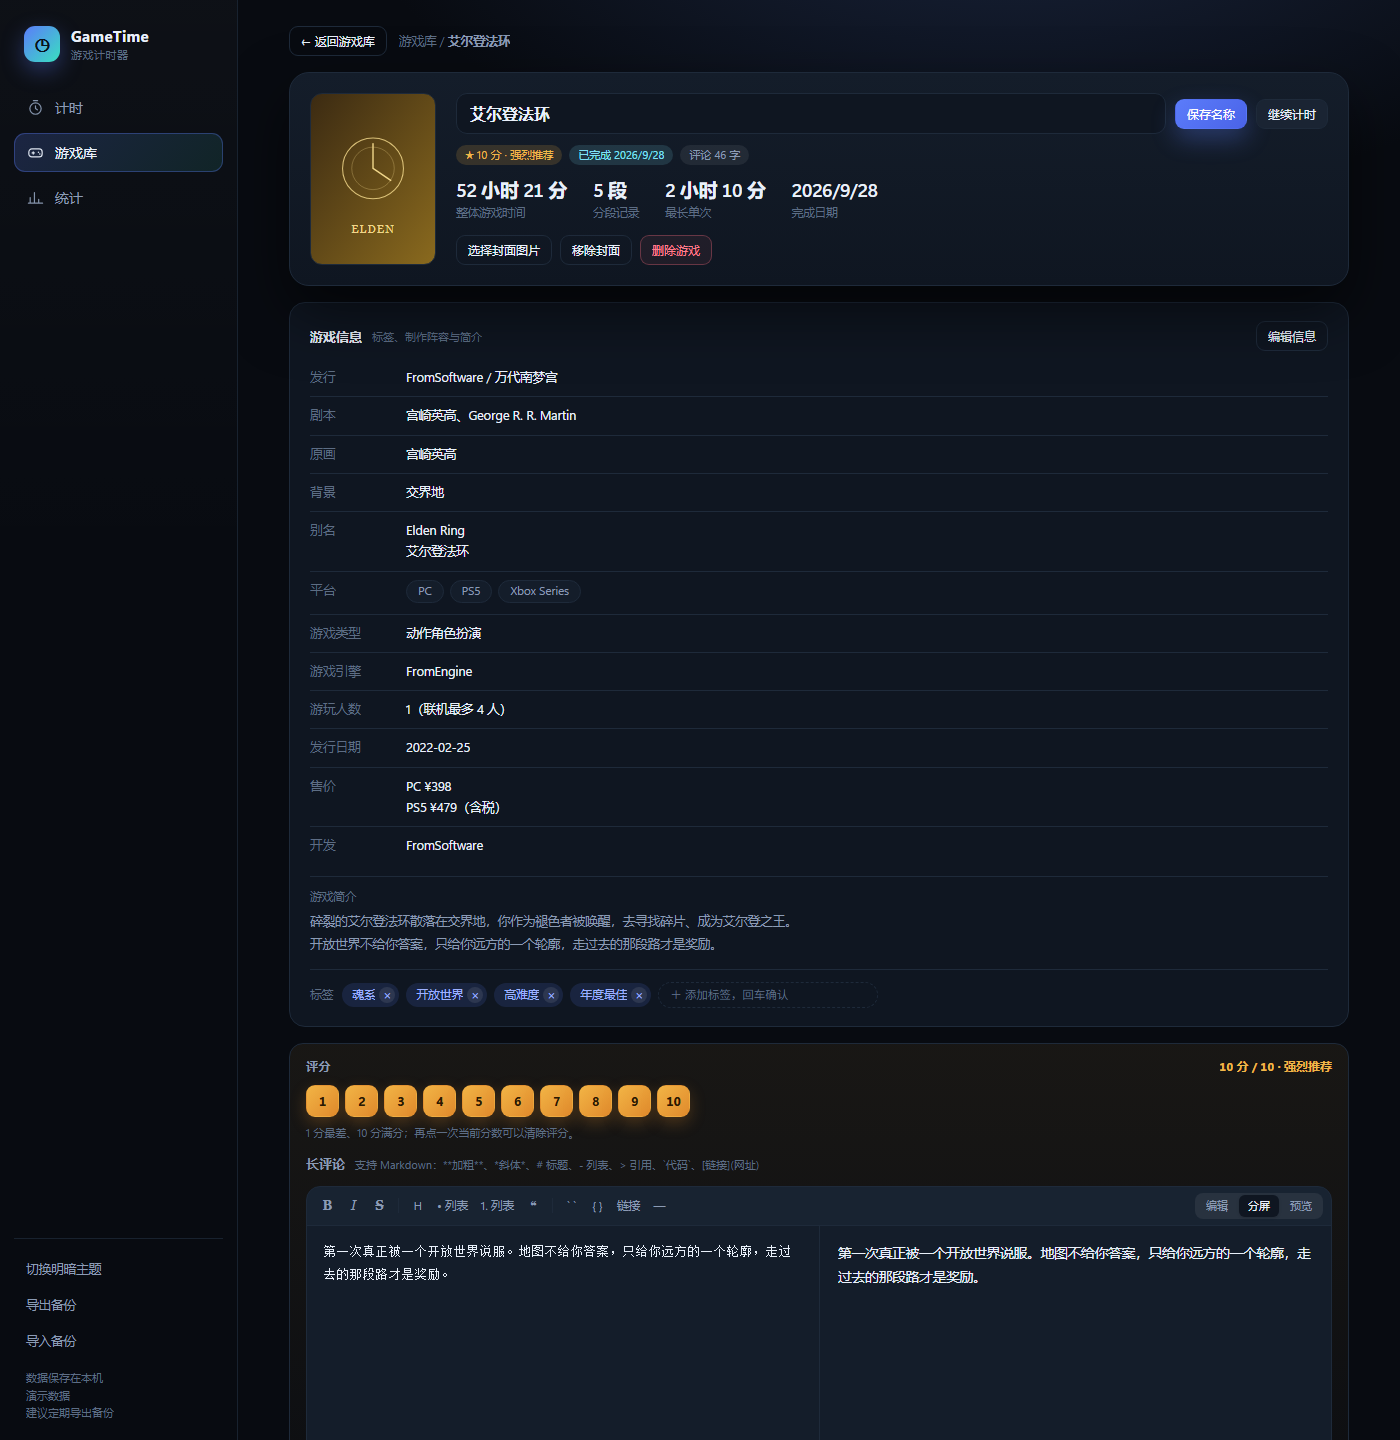
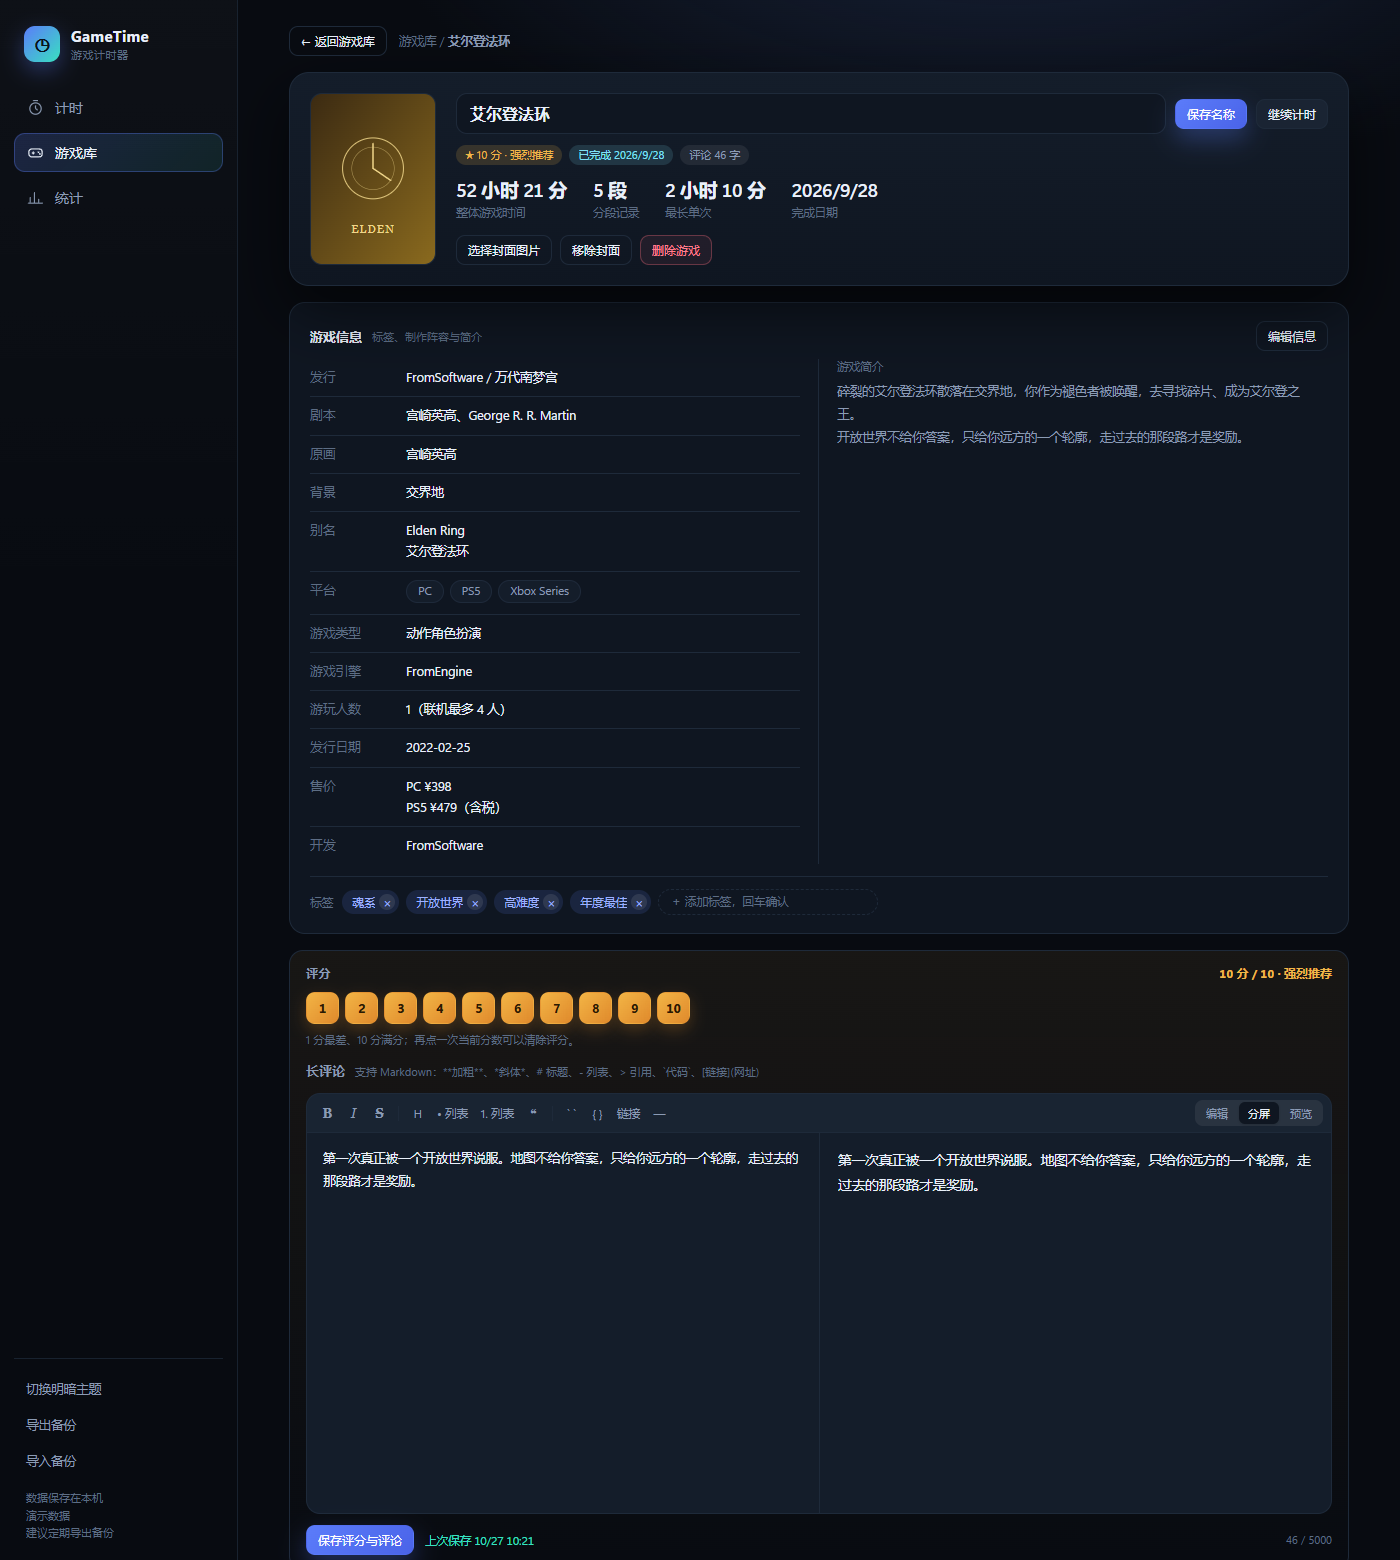
feat(detail): 游戏信息卡改为「资料表 + 简介」左右并排
- 12 项基础信息占左列，游戏简介占右列，横向对齐、两列等宽，
  中间用 1px 分隔线，一眼能同时看到制作阵容与故事简介
- 简介超长时改为在右栏内滚动（max-height 520px），
  底部渐隐提示还有内容，滚到底自动取消渐隐，不再被硬切成半截
- 窗口 ≤900px 时回退为上下单排（资料表在上、简介在下），
  简介取消高度限制与滚动
- 编辑态表单、标签区、保存/取消链路均未改动

验证：无头 Edge 12 项断言通过（两列等宽、换游戏保持并排、编辑保存落盘、
取消不写库、窄屏变单列仍显示标签），无 JS 异常。

diff --git a/GameTime/index.html b/GameTime/index.html
@@ -484,16 +484,26 @@ textarea.md-input::placeholder{color:var(--dim);font-family:"Segoe UI","Microsof
 .info-head b{font-size:13px;font-weight:600}
 .info-head .info-sub{font-size:11px;color:var(--dim)}
 .info-head .sp{flex:1}
-.info-rows{display:flex;flex-direction:column}
+.info-body{display:grid;grid-template-columns:minmax(0,1fr) minmax(0,1fr);margin-top:2px}
+.info-rows{display:flex;flex-direction:column;border-right:1px solid var(--line);padding-right:18px}
 .info-row{display:flex;gap:14px;padding:8px 0;border-top:1px solid var(--line);font-size:12.5px;line-height:1.7}
 .info-row:first-child{border-top:0}
 .info-k{flex:0 0 82px;color:var(--dim);letter-spacing:.2px}
 .info-v{flex:1;min-width:0;color:var(--text);word-break:break-word;white-space:pre-wrap}
 .info-v.dim{color:var(--dim)}
 .plat{display:inline-flex;align-items:center;height:23px;padding:0 11px;margin:0 6px 3px 0;border:1px solid var(--line);border-radius:999px;font-size:11.5px;color:var(--muted);background:var(--panel-2)}
-.info-syn{margin-top:12px;padding-top:12px;border-top:1px solid var(--line)}
+/* 简介与左侧资料表并排：右上角对齐，内容长时在自身区域内滚动，卡片不会被撑得过高 */
+.info-syn{padding-left:18px;display:flex;flex-direction:column;min-height:0}
 .info-syn .k{font-size:11.5px;color:var(--dim);margin-bottom:6px}
-.info-syn .txt{font-size:12.5px;line-height:1.85;white-space:pre-wrap;color:var(--muted);word-break:break-word}
+.info-syn .txt{font-size:12.5px;line-height:1.85;white-space:pre-wrap;color:var(--muted);word-break:break-word;
+  max-height:520px;overflow:auto;padding-right:6px;padding-bottom:16px;overscroll-behavior:contain}
+/* 内容超出时底部渐隐，提示还能往下滚，避免最后一行被切成半截像出错 */
+.info-syn .txt.fade{-webkit-mask-image:linear-gradient(to bottom,#000 calc(100% - 30px),transparent);
+  mask-image:linear-gradient(to bottom,#000 calc(100% - 30px),transparent)}
+.info-syn .txt.fade.at-end{-webkit-mask-image:none;mask-image:none}
+.info-syn .txt::-webkit-scrollbar{width:8px}
+.info-syn .txt::-webkit-scrollbar-thumb{background:var(--track);border-radius:8px}
+.info-syn .txt::-webkit-scrollbar-thumb:hover{background:rgba(91,124,250,.45)}
 
 /* 标签：可删（编辑态）与只读两种样式 */
 .tagbar{display:flex;align-items:center;gap:7px;flex-wrap:wrap;padding-top:12px;margin-top:12px;border-top:1px solid var(--line)}
@@ -742,6 +752,13 @@ input.input::-webkit-calendar-picker-indicator:hover{opacity:1}
   .grid-2{grid-template-columns:1fr}
   .stats-row{grid-template-columns:1fr}
   .rank-row .nm{width:96px}
+}
+@media (max-width:900px){
+  /* 窗口不够宽时，资料表与简介改回上下排 */
+  .info-body{grid-template-columns:1fr}
+  .info-rows{border-right:0;padding-right:0}
+  .info-syn{padding-left:0;margin-top:12px;padding-top:12px;border-top:1px solid var(--line)}
+  .info-syn .txt{max-height:none;overflow:visible;padding-right:0}
 }
 @media (max-width:760px){
   .stats-row{grid-template-columns:1fr}
@@ -2360,10 +2377,12 @@ input.input::-webkit-calendar-picker-indicator:hover{opacity:1}
       }).join('');
       var syn = info.synopsis || '';
       host.innerHTML = '<div class="card info-card">' + head +
-        '<div class="info-rows">' + rows + '</div>' +
-        '<div class="info-syn"><div class="k">游戏简介</div>' +
-          (syn ? '<div class="txt">' + esc(syn) + '</div>'
-               : '<div class="txt dim" style="color:var(--dim)">还没有写简介。点右上角「编辑信息」补上。</div>') +
+        '<div class="info-body">' +
+          '<div class="info-rows">' + rows + '</div>' +
+          '<div class="info-syn"><div class="k">游戏简介</div>' +
+            (syn ? '<div class="txt">' + esc(syn) + '</div>'
+                 : '<div class="txt" style="color:var(--dim)">还没有写简介。点右上角「编辑信息」补上。</div>') +
+          '</div>' +
         '</div>' +
         tagsBar +
       '</div>';
@@ -2372,6 +2391,17 @@ input.input::-webkit-calendar-picker-indicator:hover{opacity:1}
   }
 
   function bindInfoBlock(g){
+    // 简介可滚动时，底部渐隐提示还有内容；滚到底就取消渐隐
+    var synTxt = $('#infoBlock .info-syn .txt');
+    if (synTxt) {
+      var syncFade = function(){
+        var over = synTxt.scrollHeight > synTxt.clientHeight + 4;
+        var atEnd = synTxt.scrollTop + synTxt.clientHeight >= synTxt.scrollHeight - 8;
+        synTxt.classList.toggle('fade', over && !atEnd);
+      };
+      synTxt.addEventListener('scroll', syncFade);
+      syncFade();
+    }
     var editBtn = $('#infoEdit');
     if (editBtn) editBtn.addEventListener('click', function(){
       infoEditing = true;
